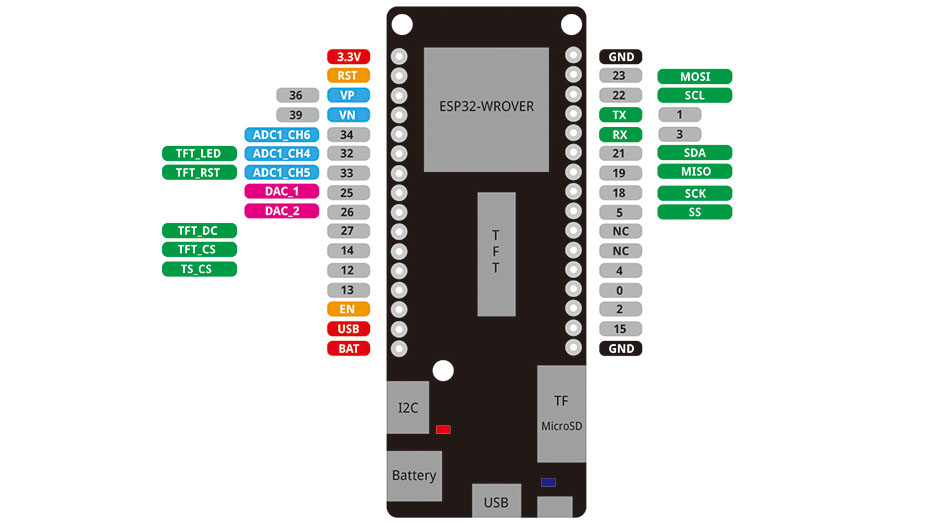
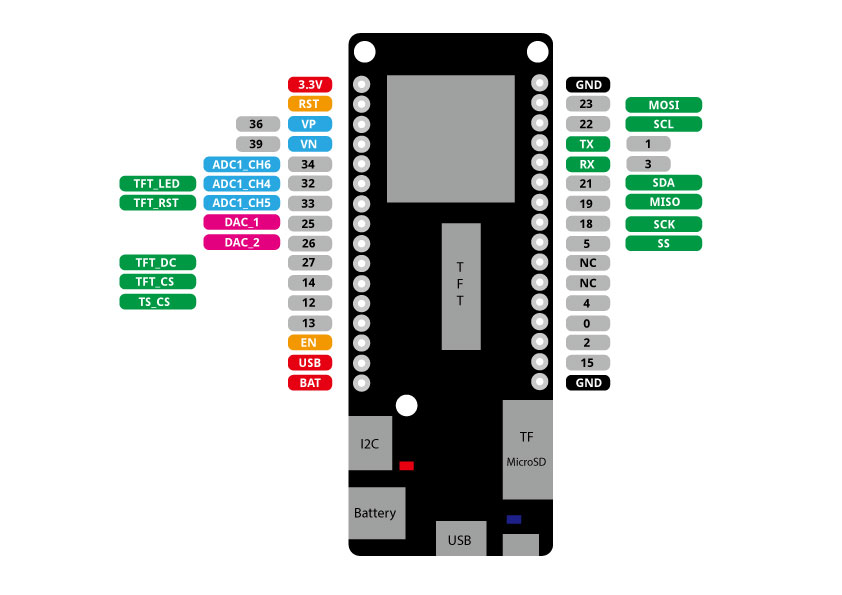
fix d32 pro link

Changed region(s): [[0.1235, 0.0, 0.8337, 1.0]]

diff --git a/docs/en/d32/d32_pro.rst b/docs/en/d32/d32_pro.rst
@@ -11,14 +11,12 @@ D32 Pro
 .. |BOTTOM_IMG| image:: ../_static/boards/d32_pro_v2.0.0_2_16x16.jpg
 .. _BOTTOM_IMG: ../_static/boards/d32_pro_v2.0.0_2_16x16.jpg
 
-A wifi&bluetooth board based ESP32-WROVER
-`[Buy it] <https://www.aliexpress.com/store/product/LOLIN-D32-Pro-V1-0-0-wifi-bluetooth-board-based-ESP-32-esp32-Rev1-ESP32-WROVER/1331105_32883116057.html>`_
+A wifi&bluetooth board based ESP32
+`[Buy it] <https://fr.aliexpress.com/item/1005011905592977.html>`_
 
 Features
 ------------------
 
-  * Espressif official ESP32-WROVER module
-  * Lastest ESP32 Version: REV1
   * 16MB FLASH
   * 8MB PSRAM 
   * Lithium battery interface, 500mA Max charging current
